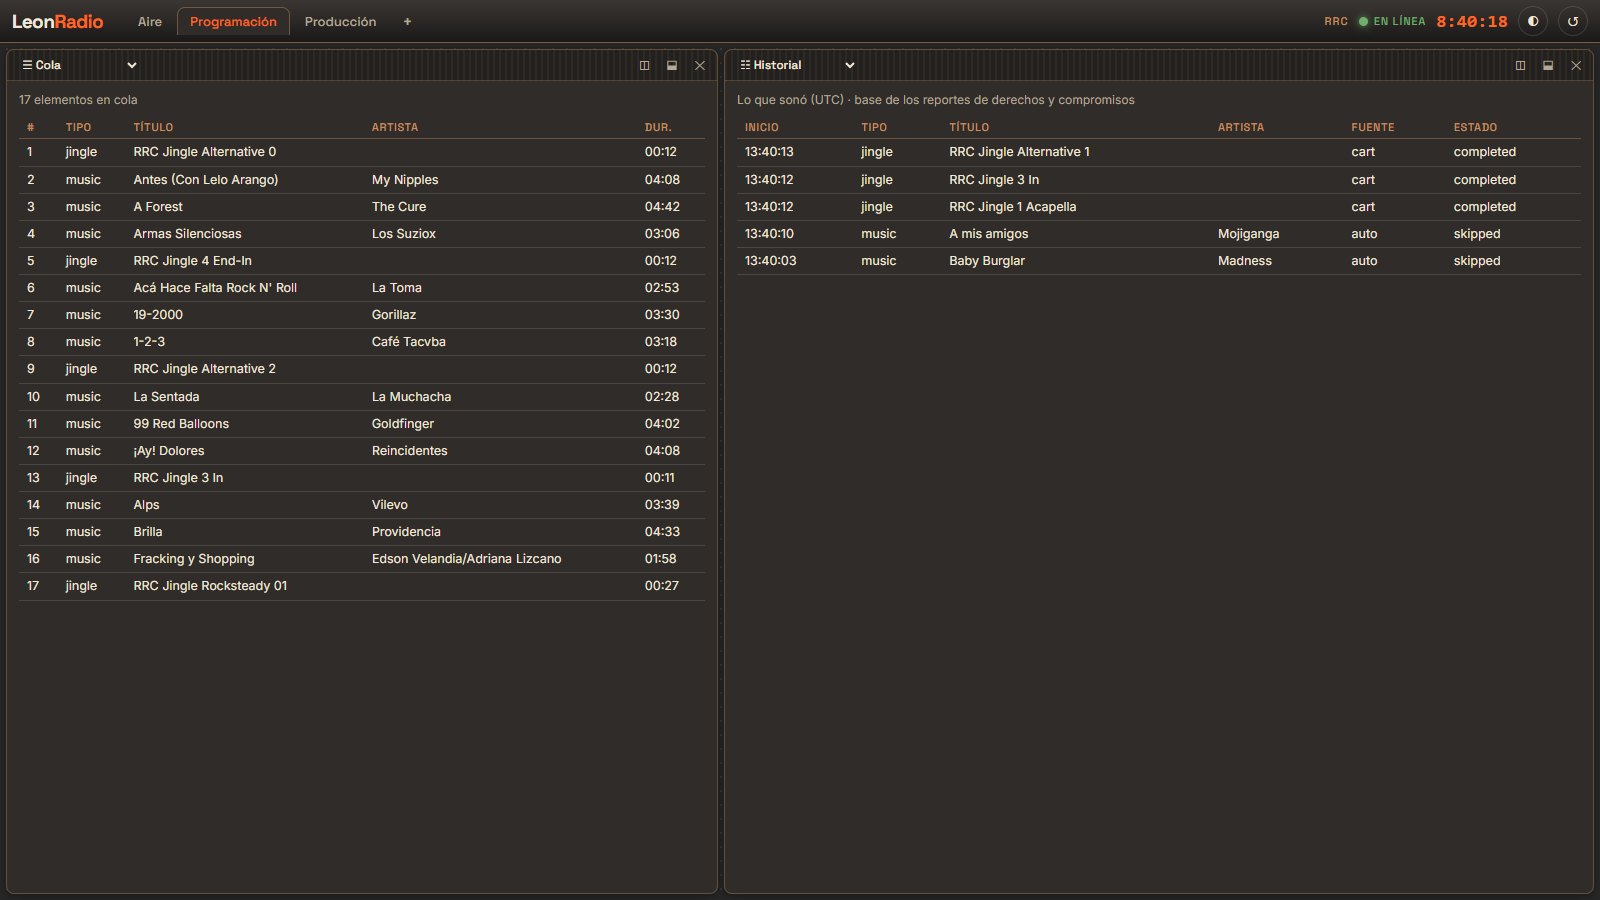
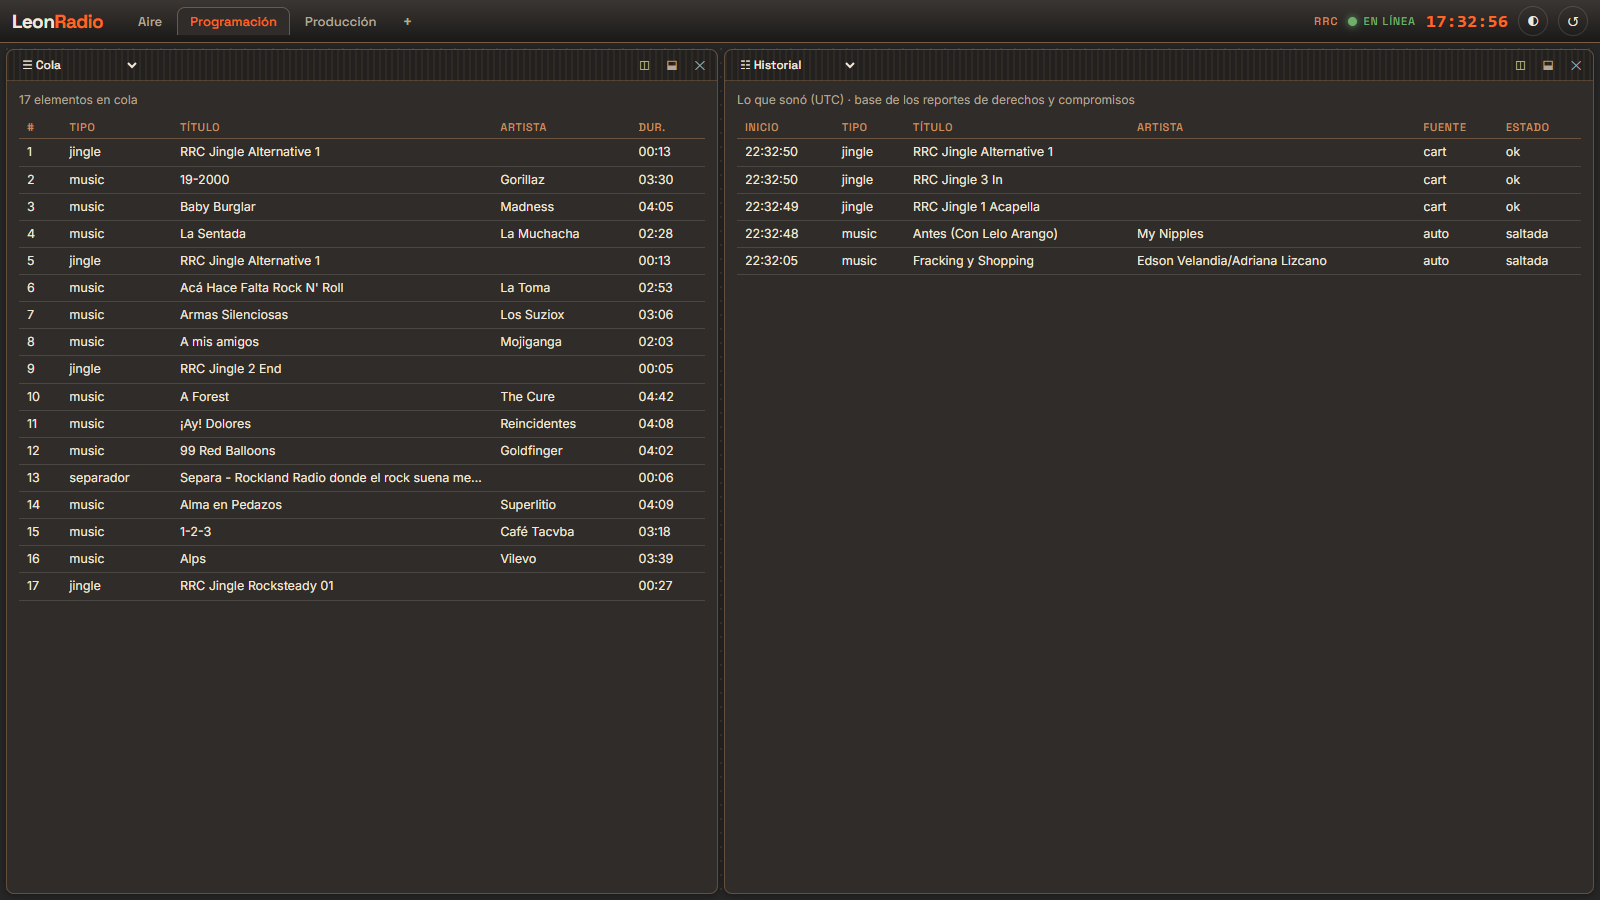
UI: pulido y diseño adaptable a teléfono
- tablas: columnas secundarias se ocultan en áreas angostas; estado abreviado
- VU: la etiqueta ya no se cruza con la aguja; dial más grande y centrado
- Producción: workspace más útil (Aire, Cola, addon de ejemplo, Cartuchera)
- móvil: áreas apiladas, página desplazable, controles táctiles
- capturas de escritorio y teléfono regeneradas

diff --git a/ui/src/css/app.css b/ui/src/css/app.css
@@ -107,3 +107,32 @@ table.u-tab{width:100%;border-collapse:collapse;font-size:12.5px}
 .pad-bronze{background:var(--c-bronze);color:var(--c-carbon)}
 .pad-graphite{background:var(--c-g700);color:var(--c-cream);border-color:rgba(197,143,94,.5)}
 .pad-cream{background:var(--c-cream);color:var(--c-carbon);border-color:var(--c-orange)}
+
+/* ---- tablas y columnas ocultables ---- */
+.area .body{container-type:inline-size}
+.u-tabwrap{overflow-x:auto;max-width:100%}
+@container (max-width:460px){ .nh{display:none} }
+
+/* ---- teléfono / pantallas estrechas: las áreas se apilan y la página se desplaza ---- */
+@media (max-width:820px){
+  body{overflow:auto;display:block;height:auto;min-height:100%}
+  .top{position:sticky;top:0;z-index:20;flex-wrap:wrap;gap:6px 10px;padding:6px 10px}
+  .tabs{order:3;flex-basis:100%;margin-left:0}
+  .brand{font-size:17px}
+  .clock{font-size:15px}
+  .tools{margin-left:auto}
+  #screen{display:block;padding:6px;overflow:visible}
+  .split,.split.h,.split.v{display:block}
+  .split>.node{display:block;flex:none!important;margin-bottom:6px}
+  .gutter{display:none}
+  .area{min-height:300px;height:auto}
+  .area .body{max-height:70vh}
+  .cmp{min-height:210px}
+  .hbtn{display:none}
+}
+@media (pointer:coarse){
+  .u-btn{padding:9px 18px;font-size:13px}
+  .tab{padding:8px 14px}
+  .btn-i{width:38px;height:38px}
+  .area select{padding:6px 4px;font-size:13px}
+}

diff --git a/ui/src/js/components/fm-dial.js b/ui/src/js/components/fm-dial.js
@@ -11,9 +11,12 @@ export function fmDial(props) {
 
   return canvasComponent((ctx, w, h, t) => {
     const T = tokens();
-    const dialH = Math.min(Math.max(50, h * 0.5), w * 0.34);
-    const u = Math.max(8, Math.min(w / 34, dialH / 6));   // unidad tipográfica
+    const dialH = Math.min(Math.max(50, h * 0.5), w * 0.4);
+    const u = Math.max(8, Math.min(w / 28, h / 11));      // unidad tipográfica
     const narrow = w < 230;
+    const total = dialH + u * 7.2;                          // alto real del conjunto
+    ctx.save();
+    ctx.translate(0, Math.max(0, (h - total) / 2));
 
     // cristal oscuro cálido
     const g = ctx.createRadialGradient(w / 2, dialH * 0.45, 4, w / 2, dialH * 0.45, w * 0.6);
@@ -55,7 +58,7 @@ export function fmDial(props) {
     ctx.fillStyle = gl; ctx.fillRect(2, 2, w - 4, dialH * 0.45);
 
     // panel RDS
-    ctx.fillStyle = T.g700; ctx.fillRect(0, dialH, w, h - dialH);
+    ctx.fillStyle = T.g700; ctx.fillRect(0, dialH, w, u * 7.2);
     ctx.textBaseline = "top";
     const ry = dialH + u * 0.6;
     ctx.textAlign = "left"; ctx.fillStyle = T.cream; ctx.font = `700 ${u * 0.8}px ${FONT_MONO}`;
@@ -76,6 +79,7 @@ export function fmDial(props) {
       const span = tw + 40, off = ((t / 1000) * 30) % span;
       ctx.fillText(rds, 10 - off, ty); ctx.fillText(rds, 10 - off + span, ty);
     }
+    ctx.restore();
     ctx.restore();
   });
 }

diff --git a/ui/src/js/main.js b/ui/src/js/main.js
@@ -1,7 +1,7 @@
 import { connectEvents, getEditors, getInfo } from "./api.js";
 import { AreaManager, area, split } from "./areas.js";
 
-const KEY = "leonradio.workspaces.v3";
+const KEY = "leonradio.workspaces.v4";
 const $ = (s) => document.querySelector(s);
 const store = {
   get() { try { return JSON.parse(localStorage.getItem(KEY)); } catch { return null; } },
@@ -15,7 +15,9 @@ const defaults = () => ({
         split("h", area("aire"), split("h", area("vu"), split("h", area("reloj"), area("dial"), 0.42), 0.42), 0.30),
         split("h", area("cola"), split("h", area("cartuchera"), area("historial"), 0.55), 0.34), 0.5) },
     { name: "Programación", tree: split("h", area("cola"), area("historial"), 0.45) },
-    { name: "Producción", tree: split("h", area("aire"), area("ejemplo.hora"), 0.6) },
+    { name: "Producción", tree: split("h",
+        split("v", area("aire"), area("cola"), 0.4),
+        split("v", area("ejemplo.hora"), area("cartuchera"), 0.4), 0.55) },
   ],
 });
 

diff --git a/ui/src/js/renderer.js b/ui/src/js/renderer.js
@@ -48,20 +48,23 @@ const NODES = {
   separator: () => el("hr", "u-sep"),
   table: (n) => {
     const t = el("table", "u-tab");
+    const nh = new Set(n.nh || []);
     const head = el("tr");
-    n.columns.forEach((c) => head.append(el("th", "", c)));
+    n.columns.forEach((c, i) => head.append(el("th", nh.has(i) ? "nh" : "", c)));
     const thead = el("thead");
     thead.append(head);
     t.append(thead);
     const body = el("tbody");
     n.rows.forEach((r) => {
       const tr = el("tr");
-      r.forEach((c) => tr.append(el("td", "", c)));
+      r.forEach((c, i) => tr.append(el("td", nh.has(i) ? "nh" : "", c)));
       body.append(tr);
     });
     t.append(body);
     if (!n.rows.length) return el("div", "empty", "Sin datos todavía");
-    return t;
+    const wrap = el("div", "u-tabwrap");
+    wrap.append(t);
+    return wrap;
   },
 };
 

diff --git a/ui/src/js/components/vu-meter.js b/ui/src/js/components/vu-meter.js
@@ -48,7 +48,9 @@ function meter(ctx, T, x, y, w, h, value, label) {
 
   // rótulos
   ctx.fillStyle = T.g500; ctx.font = `700 ${Math.max(10, R * 0.16)}px ${FONT_DISPLAY}`;
-  ctx.fillText("VU", px, y + h * 0.36);
+  ctx.textAlign = "left"; ctx.textBaseline = "top";
+  ctx.fillText("VU", x + 10, y + 8);
+  ctx.textBaseline = "middle"; ctx.textAlign = "center";
   ctx.fillStyle = T.carbon; ctx.font = `700 ${Math.max(10, R * 0.13)}px ${FONT_MONO}`;
   ctx.textAlign = "left"; ctx.fillText(label, x + 10, y + h - 12);
 

diff --git a/core/src/leonradio_core/builtin/__init__.py b/core/src/leonradio_core/builtin/__init__.py
@@ -14,6 +14,9 @@ def _mmss(ms: int | float | None) -> str:
     return f"{s // 60:02d}:{s % 60:02d}"
 
 
+_STATUS = {"completed": "ok", "skipped": "saltada", "interrupted": "cortada", "failed": "falla"}
+
+
 class AireEditor(sdk.Editor):
     id, label, icon = "aire", "Aire", "●"
 
@@ -42,7 +45,7 @@ class ColaEditor(sdk.Editor):
         ui.label(f"{len(queue)} elementos en cola", "muted")
         ui.table(["#", "Tipo", "Título", "Artista", "Dur."],
                  [[i + 1, q["kind"], q["title"], q.get("artist") or "", _mmss(q["duration_ms"])]
-                  for i, q in enumerate(queue[:30])])
+                  for i, q in enumerate(queue[:30])], narrow_hide=[1, 3])
 
 
 class HistorialEditor(sdk.Editor):
@@ -52,8 +55,8 @@ class HistorialEditor(sdk.Editor):
         plays = ctx.recent_plays(40)
         ui.label("Lo que sonó (UTC) · base de los reportes de derechos y compromisos", "muted")
         ui.table(["Inicio", "Tipo", "Título", "Artista", "Fuente", "Estado"],
-                 [[p["started_at"][11:19], p["kind"], p["title"], p["artist"], p["source"], p["status"]]
-                  for p in plays])
+                 [[p["started_at"][11:19], p["kind"], p["title"], p["artist"], p["source"],
+                   _STATUS.get(p["status"], p["status"])] for p in plays], narrow_hide=[1, 3, 4])
 
 
 class VuEditor(sdk.Editor):

diff --git a/tools/screenshots.py b/tools/screenshots.py
@@ -53,4 +53,18 @@ with sync_playwright() as p:
     page.get_by_role("tab", name="Aire").click()
     page.click("#theme")
     shot(page, "aire-claro")
+
+    # teléfono: las áreas se apilan; captura de la página completa
+    phone = browser.new_context(viewport={"width": 390, "height": 844}, device_scale_factor=2,
+                                is_mobile=True, has_touch=True)
+    mp = phone.new_page()
+    mp.goto(URL)
+    mp.wait_for_selector(".area .body")
+    mp.wait_for_timeout(3000)
+    mp.screenshot(path=str(OUT / "telefono-aire.png"))
+    print("guardado", OUT / "telefono-aire.png")
+    mp.get_by_role("tab", name="Producción").click()
+    mp.wait_for_timeout(1500)
+    mp.screenshot(path=str(OUT / "telefono-produccion.png"))
+    print("guardado", OUT / "telefono-produccion.png")
     browser.close()

diff --git a/core/src/leonradio_core/uischema.py b/core/src/leonradio_core/uischema.py
@@ -43,8 +43,9 @@ class UI:
     def separator(self) -> None:
         self._add({"t": "separator"})
 
-    def table(self, columns: list[str], rows: list[list[object]]) -> None:
-        self._add({"t": "table", "columns": columns,
+    def table(self, columns: list[str], rows: list[list[object]], narrow_hide: list[int] | None = None) -> None:
+        """`narrow_hide`: índices de columnas que se ocultan cuando el área es angosta (p. ej. en el teléfono)."""
+        self._add({"t": "table", "columns": columns, "nh": narrow_hide or [],
                    "rows": [[str(c) if c is not None else "" for c in r] for r in rows]})
 
     @contextmanager

diff --git a/README.md b/README.md
@@ -19,9 +19,16 @@ Estación de prueba: **RRC – Rockland Radio Colombia** (https://rocklandradio.
 
 ![Workspace Programación](docs/img/programacion.png)
 
-**Workspace «Producción»**: a la derecha, un editor aportado por un **addon** de ejemplo (`addons/ejemplo_hora_emisora`).
+**Workspace «Producción»**: arriba a la derecha, un editor aportado por un **addon** de ejemplo (`addons/ejemplo_hora_emisora`).
 
 ![Workspace Producción con un addon](docs/img/produccion-addon.png)
+
+**En el teléfono**: en pantallas estrechas las áreas se apilan, la página se desplaza, los botones son táctiles y las tablas ocultan columnas secundarias.
+
+<p>
+<img src="docs/img/telefono-aire.png" alt="Workspace Aire en un teléfono" width="300">
+<img src="docs/img/telefono-produccion.png" alt="Workspace Producción en un teléfono" width="300">
+</p>
 
 Se regeneran con `tools/screenshots.py` (ver el encabezado del script).
 
